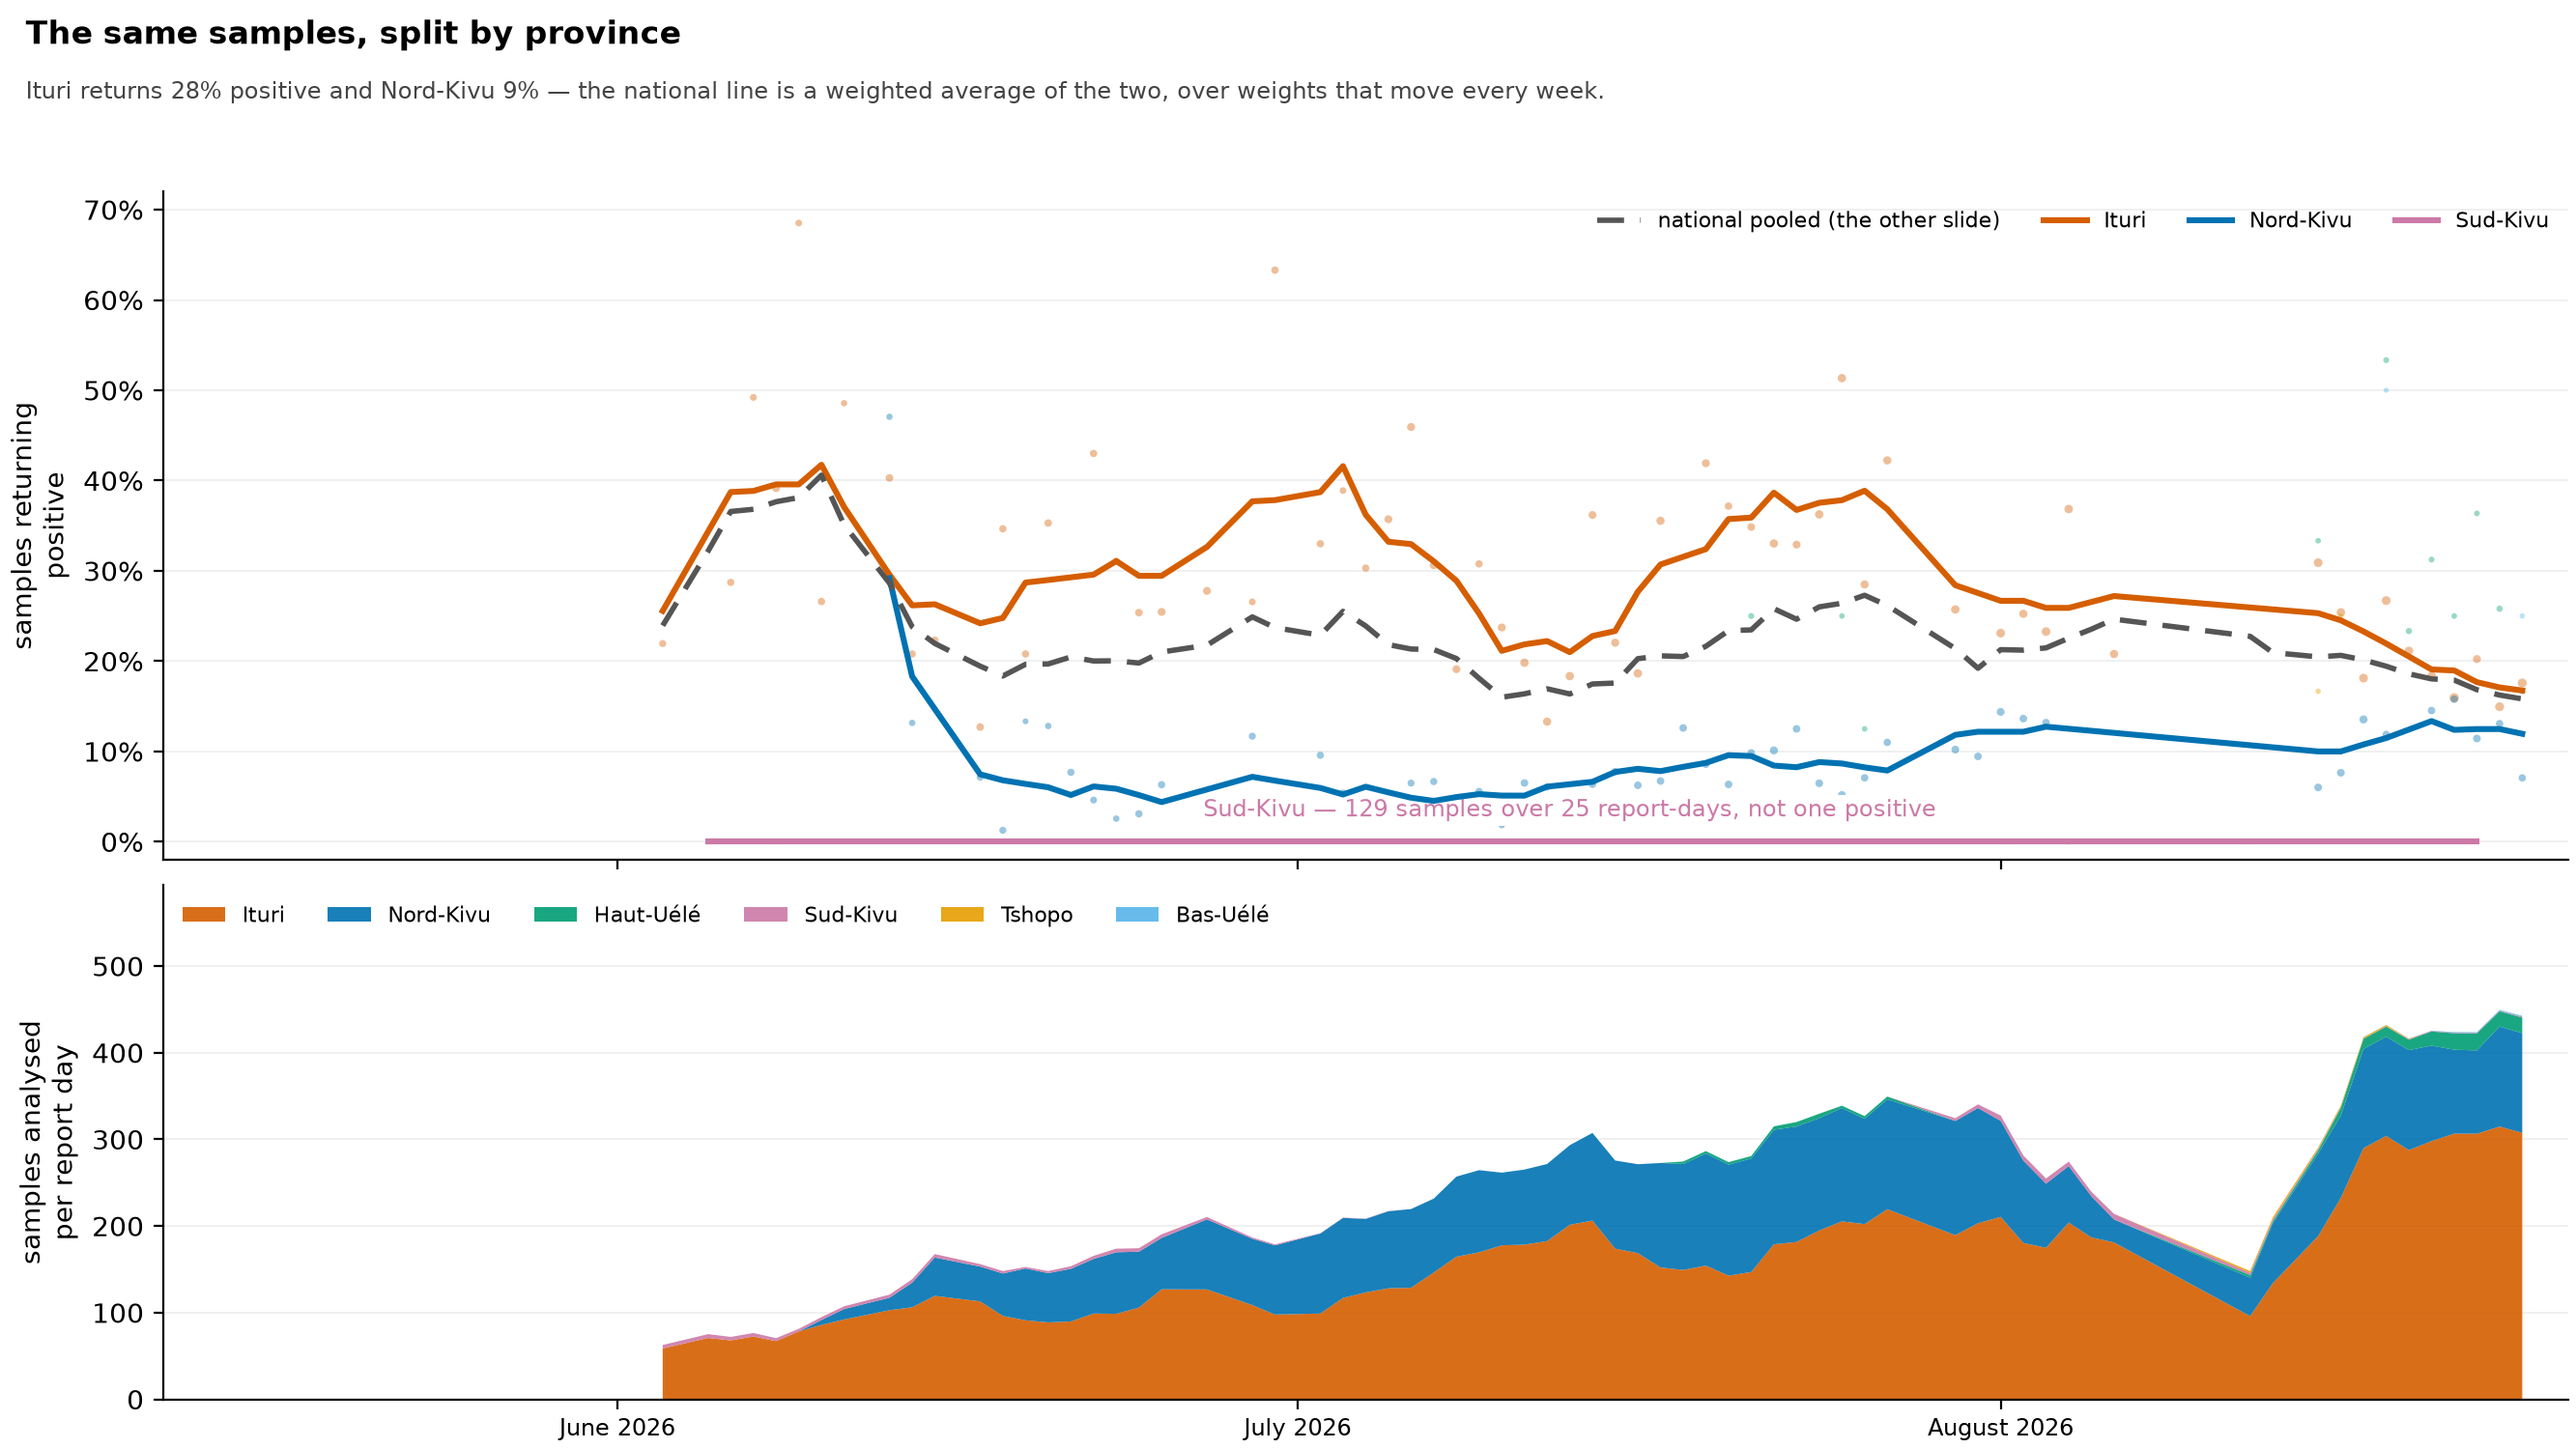
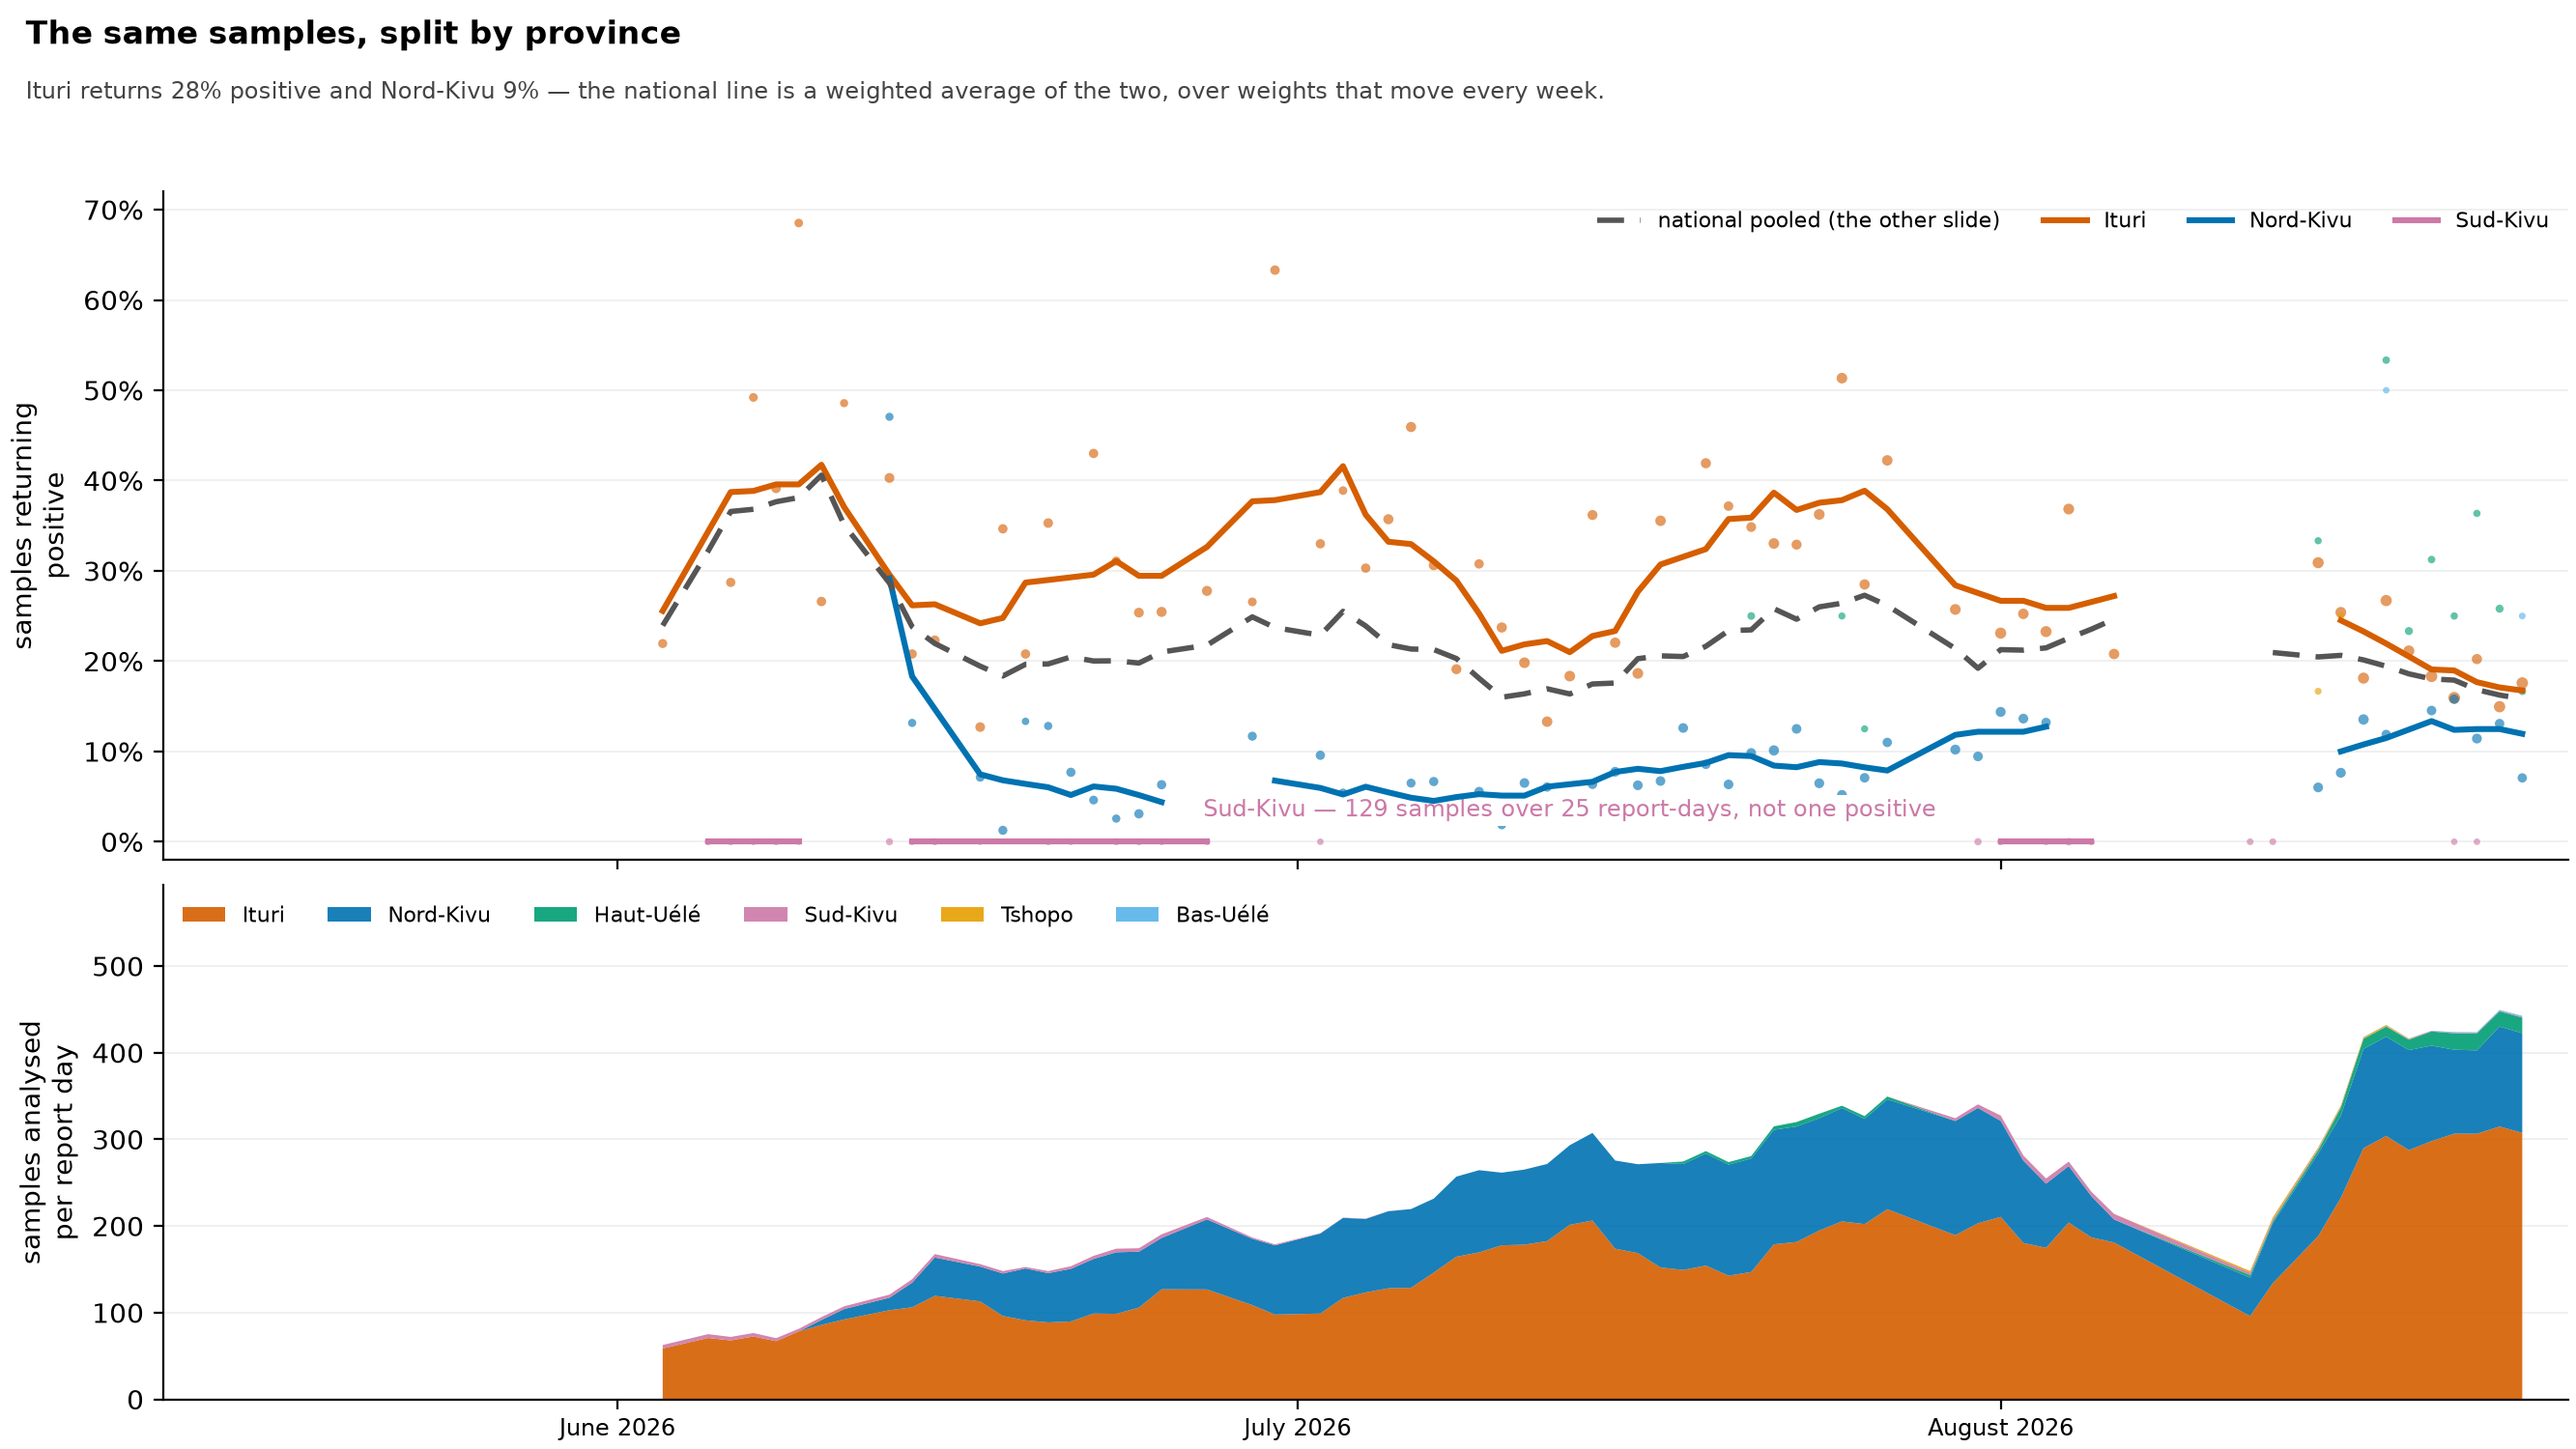
figures: interrupt the positivity lines at gaps, and enlarge the marks
A line across a gap asserts a level on days the series does not cover, most
confidently where there is least evidence. The threshold comes from the
measured step distribution rather than taste: two- and three-day steps are
ordinary here (Ituri has eleven) and breaking on those would fragment a series
that is continuous, so the break is above three days. That interrupts the
national line once and Ituri's once, and falls Sud-Kivu into five pieces --
25 days across twelve weeks with a 29-day silence in the middle, which is what
that series honestly is.

Marks are larger and less transparent, with area on the square root of the
sample count so a 347-sample day does not blot out the six-sample days it has
to be compared against. Shared constants with the national figure so the pair
reads as one dataset seen twice.

A FINDING ABOUT THIS PIPELINE, surfaced by checking that the breaks were real
and recorded in both captions so a break is never read as the laboratory going
quiet. Across the archive 44 candidate laboratory rows are refused against 154
kept, 33 of them because the report printed no positivity rate of its own; on
13 report-days that leaves nothing. The August interruption is both kinds at
once: 6 to 10 August print no sample count anywhere, while 11 to 14 August
print 249, 284 and 336 samples that this pipeline declines for want of the
percentage it checks them against. Whether that gate should admit rows without
[…]

diff --git a/scripts/plot_figures.py b/scripts/plot_figures.py
@@ -3038,18 +3038,61 @@ def draw_response_timeline(inputs: dict[str, Path], out: Path) -> None:
     plt.close(fig)
 
 
-def _pooled_positivity(dates, pos, samp, window=7):
+#: Marker area for a province-day: `MARK_BASE + MARK_SCALE * sqrt(samples)`.
+#: Area on the square root of the count, so a day with four times the samples
+#: draws twice the width rather than four times it -- the eye reads a disc by
+#: its width, and scaling area linearly in the count makes Ituri's 347-sample
+#: days blot out the six-sample ones they need to be compared against. Shared
+#: by the national figure and the province one so the pair looks like one
+#: dataset seen twice.
+MARK_BASE, MARK_SCALE = 5.0, 0.72
+
+#: A series is INTERRUPTED rather than joined where consecutive observations
+#: are more than this many days apart.
+#:
+#: A LINE ACROSS A GAP ASSERTS A LEVEL ON DAYS THIS SERIES DOES NOT COVER, and
+#: it does so most confidently exactly where there is least evidence. The
+#: reports are daily, so a one-day step is the series behaving. Measured over
+#: this build: nationally 59 of the 68 steps are a single day and the largest
+#: is six; Ituri's are 49 ones, nine twos, two threes and a single nine. Two
+#: is deliberately not the threshold -- two- and three-day steps are ordinary
+#: (Ituri has eleven) and breaking on those would fragment a series that is in
+#: fact continuous. Breaking above three interrupts the national line once and
+#: Ituri's once, while Sud-Kivu, which prints laboratory volume on 25 days
+#: across twelve weeks with a 29-day silence in the middle, falls into five
+#: pieces -- which is what that series honestly is.
+#:
+#: A BREAK MEANS THIS SERIES HAS NO OBSERVATION, NOT THAT THE SOURCE PRINTED
+#: NOTHING, and the two come apart in this very figure. Across the archive 44
+#: candidate laboratory rows are refused against 154 kept, 33 of them because
+#: the report gave no printed positivity rate of its own; on 13 report-days
+#: that leaves nothing at all. The August interruption is both kinds at once:
+#: 6 to 10 August print no sample count anywhere in the report, and 11 to 14
+#: August print 249, 284 and 336 samples that this pipeline declines because
+#: the percentage it checks them against is absent. Do not describe either
+#: break as the laboratory going quiet.
+POSITIVITY_MAX_GAP = 3.0
+
+
+def _pooled_positivity(dates, pos, samp, window=7, max_gap=POSITIVITY_MAX_GAP):
     """Pooled positivity in a centred window: sum of positives over sum of
-    samples, NOT the mean of the daily ratios.
+    samples, NOT the mean of the daily ratios. Interrupted across gaps.
 
     The two differ here and the mean is the wrong one. Provinces report
     wildly unequal volumes on the same day -- Sud-Kivu prints 6 samples while
     Ituri prints 94 -- so a mean of ratios lets a six-sample day count as much
     as a ninety-four-sample day, and a single positive out of six reads as
     17% positivity with the weight of a whole province-week behind it.
+
+    The window is defined on DATES rather than on positions in the list, so a
+    point on the far side of a silence never contributes to the level on this
+    side of it; `max_gap` then breaks the drawn line at the same silences.
     """
     out = []
     for i, d in enumerate(dates):
+        if i > 0 and d - dates[i - 1] > max_gap:
+            out.append(None)
+            continue
         lo, hi = d - window / 2, d + window / 2
         p = sum(v for x, v in zip(dates, pos) if lo <= x <= hi)
         s = sum(v for x, v in zip(dates, samp) if lo <= x <= hi)
@@ -3126,8 +3169,9 @@ def draw_test_positivity(inputs: dict[str, Path], out: Path) -> None:
     px = _dates(lab["date"])
     ppct = [100 * p / s for p, s in
             zip(lab["positives"].to_list(), lab["samples"].to_list())]
-    psz = [3 + 0.45 * math.sqrt(s) for s in lab["samples"].to_list()]
-    ax_r.scatter(px, ppct, s=psz, color="#9a9a9a", alpha=0.55, lw=0, zorder=2,
+    psz = [MARK_BASE + MARK_SCALE * math.sqrt(s)
+           for s in lab["samples"].to_list()]
+    ax_r.scatter(px, ppct, s=psz, color="#8a8a8a", alpha=0.62, lw=0, zorder=2,
                  label="one province-day (area = samples)")
     ax_r.plot(xs, _pooled_positivity(xs, pos, samp), color="#0072B2", lw=2.2,
               zorder=3, label="7-day pooled")
@@ -3281,9 +3325,9 @@ def draw_positivity_provinces(inputs: dict[str, Path], out: Path) -> None:
         px = _dates(d["date"])
         pct = [100 * p / s for p, s in
                zip(d["positives"].to_list(), d["samples"].to_list())]
-        ax_r.scatter(px, pct, s=[3 + 0.45 * math.sqrt(v)
+        ax_r.scatter(px, pct, s=[MARK_BASE + MARK_SCALE * math.sqrt(v)
                                  for v in d["samples"].to_list()],
-                     color=ink, alpha=0.40, lw=0, zorder=3)
+                     color=ink, alpha=0.62, lw=0, zorder=3)
         if d.height >= LINE_MIN_DAYS:
             ax_r.plot(px, _pooled_positivity(px, d["positives"].to_list(),
                                              d["samples"].to_list()),

diff --git a/docs/figures/README.md b/docs/figures/README.md
@@ -461,6 +461,11 @@ made at or around a death.
   report very unequal volumes on the same day — six samples against ninety-four
   — and averaging the daily percentages would give a six-sample province-day
   the weight of a large one.
+- **The pooled line is interrupted where this series has no observation**, so
+  it is never drawn across days it does not cover. A break is not evidence the
+  laboratory went quiet: 33 candidate rows across the archive are refused for
+  printing no positivity rate of their own, and on 11 to 14 August the reports
+  print sample counts that are declined for exactly that reason.
 - **The rate agrees with the source's own printed percentage** on 153 of 154
   province-days to within 0.15 percentage points, so the upper panel is a
   reading of the page rather than a recomputation that could drift from it.
@@ -506,6 +511,15 @@ stacked by province.
   samples per report-day to about 347. Testing expanding while positivity falls
   is what case-finding catching up looks like, and none of it is visible in the
   national line.
+- **A break in a line means this series has no observation, not that the
+  laboratory went quiet.** The two come apart here. Across the archive 44
+  candidate laboratory rows are refused against 154 kept, 33 of them because
+  the report printed no positivity rate of its own for that province — the
+  rate this pipeline checks its own arithmetic against. On 13 report-days that
+  leaves nothing at all. The August interruption is both kinds at once: 6 to
+  10 August print no sample count anywhere in the report, while 11 to 14
+  August print 249, 284 and 336 samples that are declined for want of the
+  percentage beside them.
 - **A province gets a line only with at least 15 province-days**; below that a
   line through a handful of points would read as a trend. Tshopo prints
   laboratory volume twice in the whole series, ten samples in total. Those
